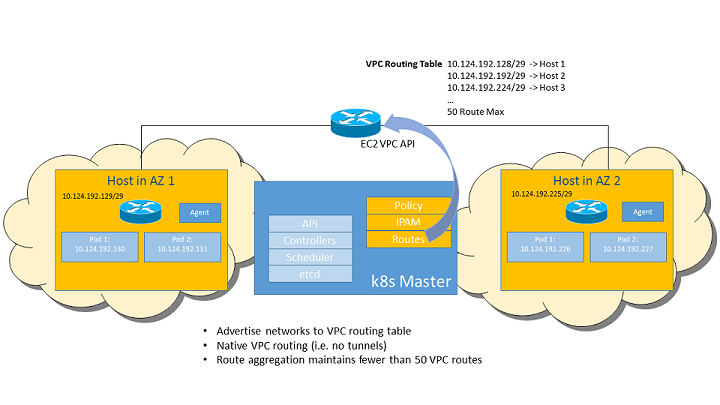
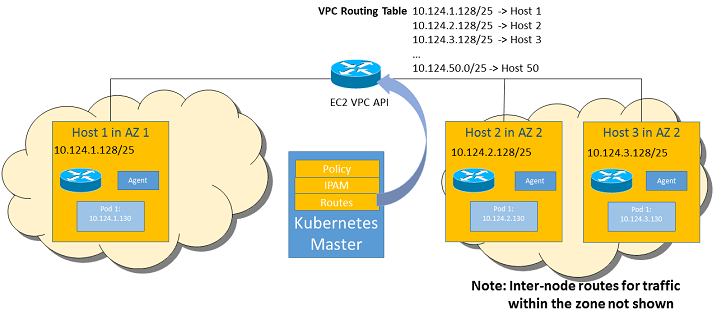
Updated images

diff --git a/deploy/public.md b/deploy/public.md
@@ -17,26 +17,31 @@ Romana is network agnostic and supports a wide range deployment options includin
 * Routing on the host (RoH) network configurations
 * Amazon VPCs
 
-Amazon EC2 is one of the most popular platforms for running but when it comes to networking, EC2 has some limits that make deploying production Kubernetes clusters unnecessarily complex and unable to operate with peak performance. 
+Amazon EC2 is one of the most popular platforms for running Kubernetes but when it comes to networking, EC2 has some limits that make deploying production clusters unnecessarily complex and unable to operate with peak performance. 
 
-Using Roman avoids these limitations and delivers native VPC network performance for every cluster. eliminates the requirement for an overlay, even when clusters are split across Availability Zones, large, multi-zone HA clusters.
+Romana lets users avoid these limitations and deploy production clusters across availability zones without an overlay and deliver native VPC network performance at any scale.
+
 
 ### Single Availability Zone Deployment
 
-EC2 instances running in a single VPC Availability Zone can rely on routes installed by Romana to reach all pods. No VPC routes are necessary.
+EC2 instances running in a single VPC Availability Zone can rely on routes installed by Romana to reach all pods. No VPC routes are necessary. Routes are installed on each host the same as when deployed in the datacenter on a [flat layer 2 network](/deploy_romana/datacenter/#flat-layer-2-networks).
+
 
 ### Multiple Availability Zone Deployment
 
-Network advertisement in EC2
+Highly available clusters are typically split across subnets in different availability zones and require VPC routes for traffic between subnets. Romana avoids the limit to the maximum number of VPC routes (default of 50) which caps the size of clusters that can use native VPC networking.
 
-For network advertisement in EC2, Romana v2.0 will update the VCP route table directly via the API in a manner similar to kubnet's EC2 cloud provider function. This lets applications use native VPC networking, avoid an overlay and deliver the highest network performance possible.
+#### Network Advertisement in EC2*
 
-In addition, unlike kubnet, since Romana aggregates routes, when you want to build a large cluster you do not need to worry about running out of VPC routes. Romana v2.0 will configure Kubernetes nodes to forward traffic to other nodes, effectively turning them into routers.
+Romana updates the VCP route table directly via the API. This lets applications use native VPC networking, avoid an overlay and deliver the highest network performance possible.
+
+Romana adds a route for each node, up to the VPC limit. 
 
 ![AWS VPC Availability Zones]({{ site.baseurl }}/images/VPCZones.png)
 
+For large clusters, Romana will configure nodes to forward traffic to other nodes, effectively turning them into routers. Traffic is spread across available nodes to avoid traffic bottlenecks.
 
-Romana performs healthcheck on VPC routes and configures a failover route on instance failure. This now allows users to build HA clusters across availability zones that use native VPC networking.
+![AWS VPC Availability Zones]({{ site.baseurl }}/images/VPCZones.51.png)
 
-Together, these new features let users build HA clusters that support network policy, all with native VPC networking.
+Romana performs healthcheck on VPC routes and configures a failover route on instance failure. This now allows users to build HA clusters of any size, across availability zones all while using native VPC networking.
 
